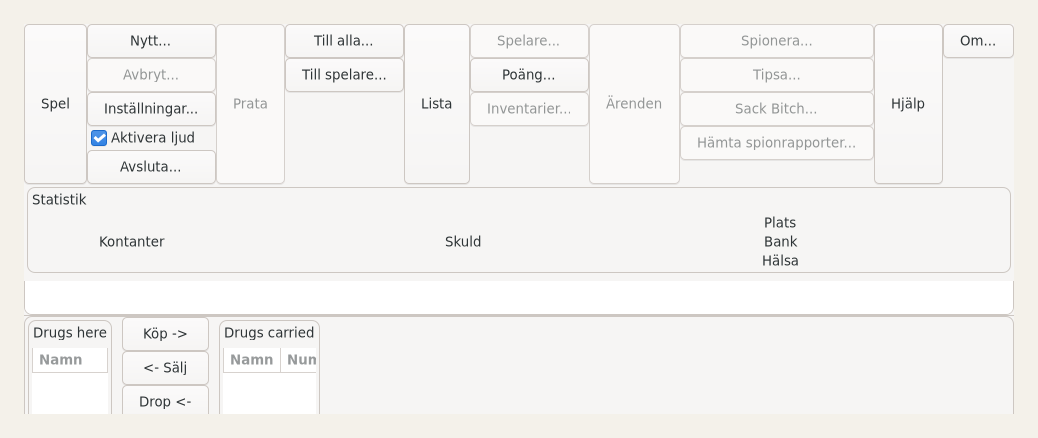
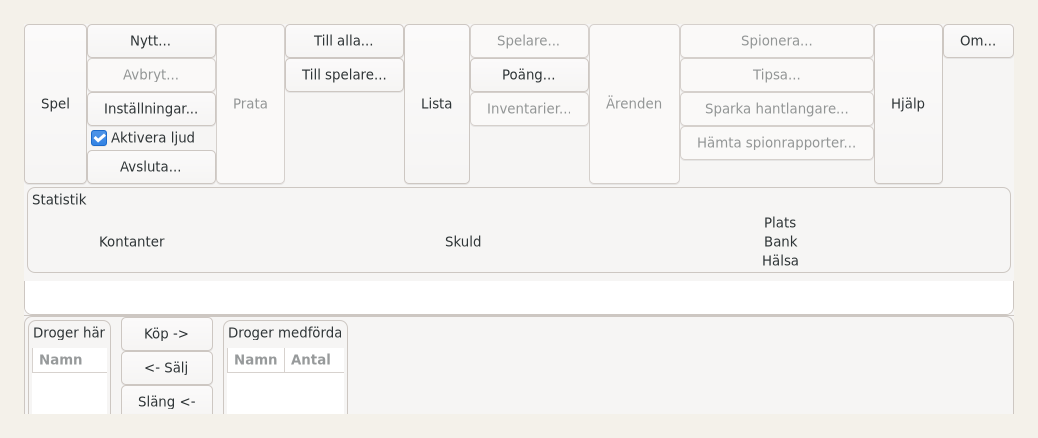
l10n: improve Swedish GTK screenshot coverage

Changed region(s): [[0.0308, 0.742, 0.3391, 0.9498], [0.6782, 0.2374, 0.8015, 0.2671]]

diff --git a/src/gui_client/gtk_client.c b/src/gui_client/gtk_client.c
@@ -175,9 +175,9 @@ static DPGtkItemFactoryEntry menu_items[] = {
   {N_("/_Errands"), NULL, NULL, 0, "<Branch>"},
   {N_("/Errands/_Spy..."), NULL, SpyOnPlayer, 0, NULL},
   {N_("/Errands/_Tipoff..."), NULL, TipOff, 0, NULL},
-  /* N.B. "Sack Bitch" has to be recreated (and thus translated) at the
-   * start of each game, below, so is not marked for gettext here */
-  {"/Errands/S_ack Bitch...", NULL, SackBitch, 0, NULL},
+  /* Recreated at the start of each game so the carried role name can be
+   * substituted, but still extract the base label for translation. */
+  {N_("/Errands/S_ack Bitch..."), NULL, SackBitch, 0, NULL},
   {N_("/Errands/_Get spy reports..."), NULL, GetSpyReports, 0, NULL},
   {N_("/_Help"), NULL, NULL, 0, "<Branch>"},
   {N_("/Help/_About..."), "F1", display_intro, 0, NULL}
